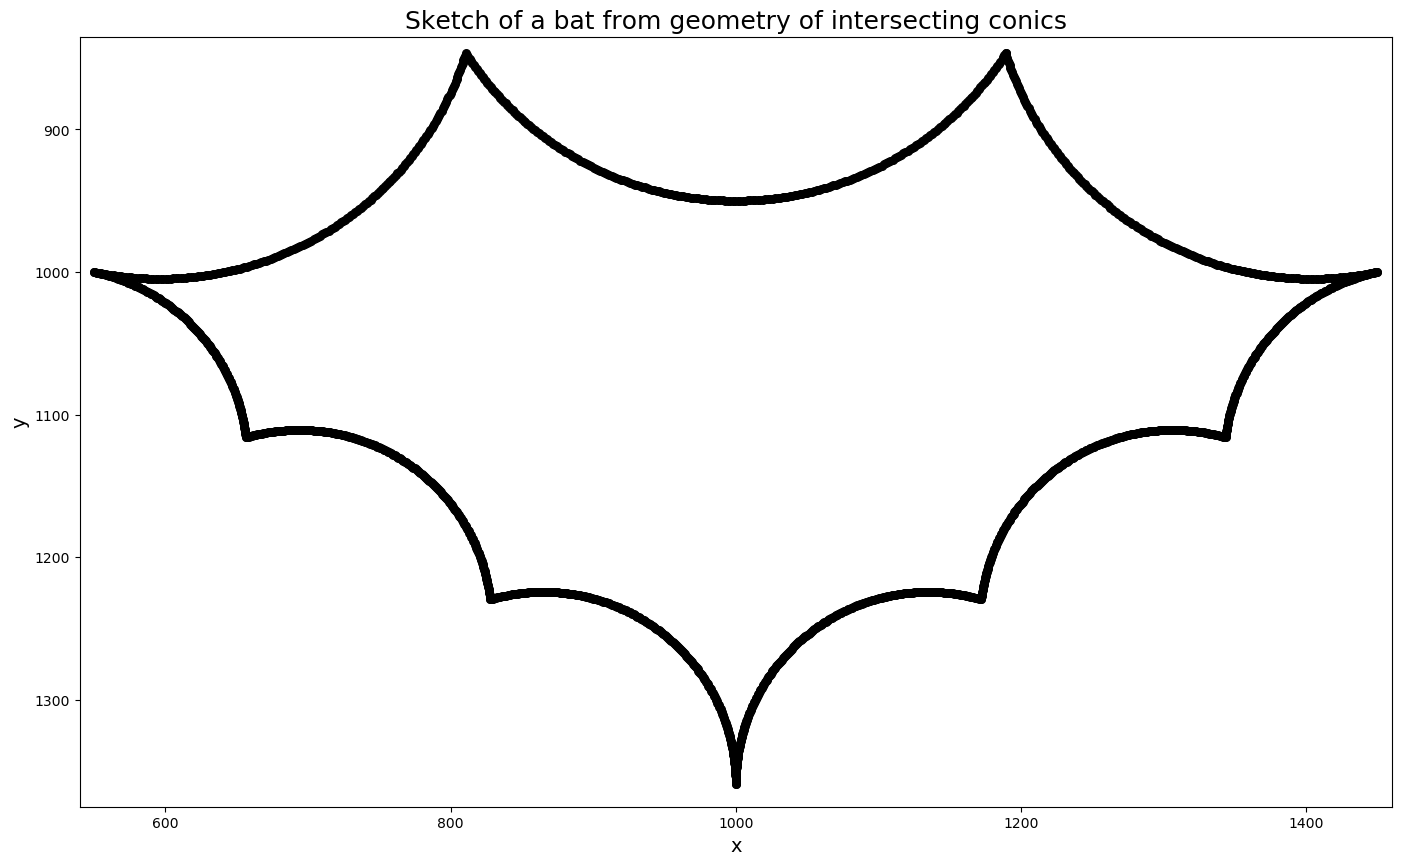
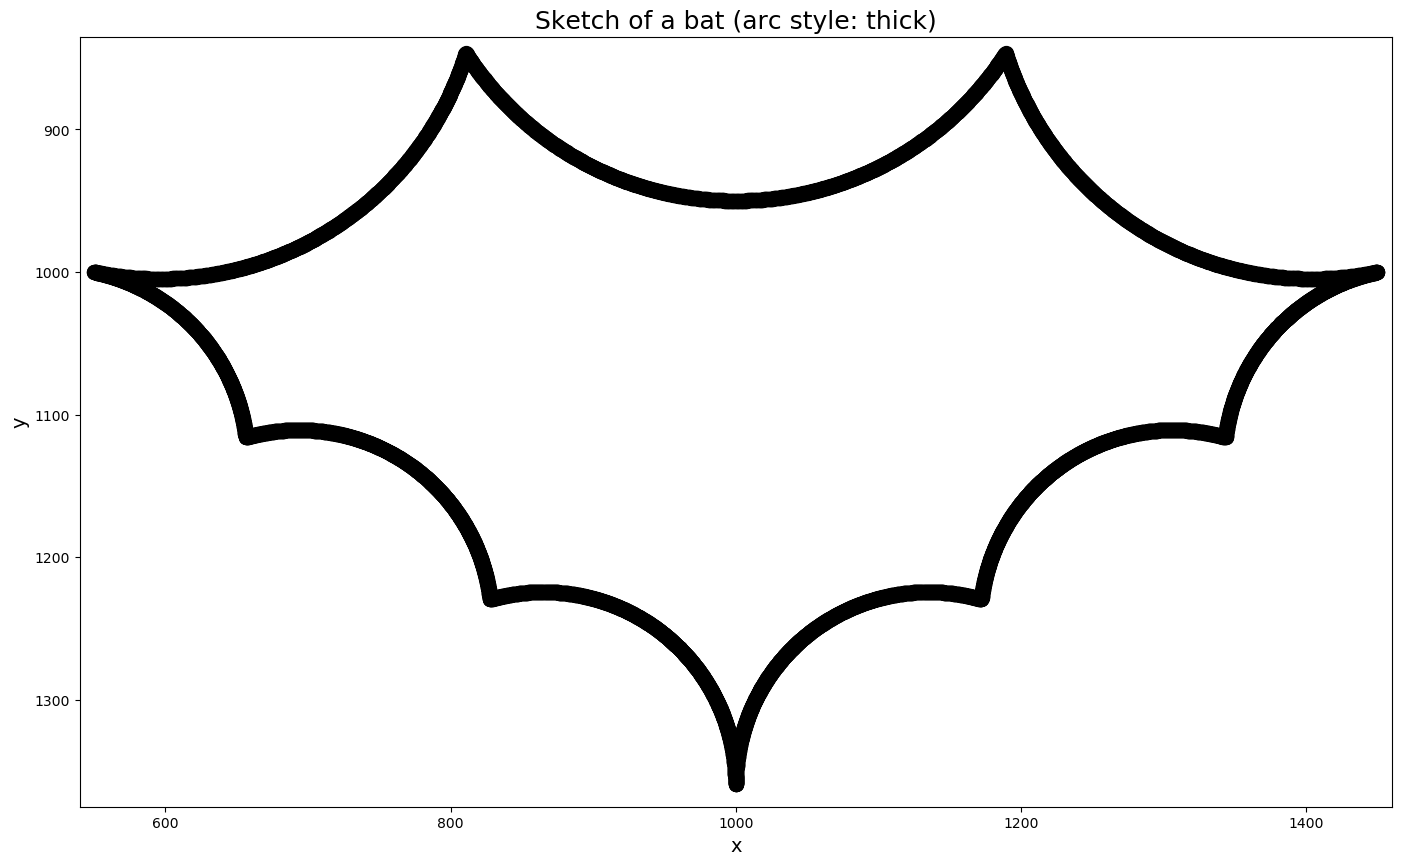
Updated arc styles and documented resulting images

diff --git a/sketch.py b/sketch.py
@@ -24,8 +24,8 @@ from sympy.combinatorics import Permutation
 from ellipse_intersect import intersection_points, intersection_t
 
 VISUALISE = True
-SUPPRESS_SKETCH_VIS = False
-ARC_STYLE = "thick"  # Options: "thick", "thin"
+SUPPRESS_SKETCH_VIS = True
+ARC_STYLE = "thin"  # Options: "dotted", "thin", thick
 SAVE_PLOT = False
 VERBOSE = False
 
@@ -37,7 +37,10 @@ if VISUALISE or SAVE_PLOT:
         plt.axis([540, 1460, 1375, 835])
     else:
         plt.axis([0, 2000, 2000, 0])
-    ax.set_title("Sketch of a bat from geometry of intersecting conics", size=18)
+    if SUPPRESS_SKETCH_VIS and ARC_STYLE in ["thick", "thin", "dotted"]:
+        ax.set_title(f"Sketch of a bat (arc style: {ARC_STYLE})", size=18)
+    else:
+        ax.set_title("Sketch of a bat from geometry of intersecting conics", size=18)
     ax.set_xlabel("x", size=14)
     ax.set_ylabel("y", size=14)
 
@@ -551,14 +554,25 @@ for cc_n, (cc_xc, cc_yc) in enumerate(circle_centres_clockwise):
                 + f"(centre {(cc_xc, cc_yc)} from {start_t} to {end_t}"
             )
         if ARC_STYLE == "thin":
+            thickness = 10
+            freq = 100 # Must be kept high so spacing is low or arc won't draw to end_t
+            spacing = thickness * 1000 / freq / cc_r
+            arc_range = arange(start_t, end_t, rad(spacing))
+            arc_x = [cc_xc + cc_r * cos(arc_t) for arc_t in arc_range]
+            arc_y = [cc_yc + cc_r * sin(arc_t) for arc_t in arc_range]
+            plt.plot(arc_x, arc_y, color="k", alpha=1)
+        elif ARC_STYLE == "thick":
+            thickness = 100
+            freq = 100
+            spacing = thickness * 1000 / freq / cc_r
             for arc_t in arange(start_t, end_t, rad(0.1)):
                 arc_x = cc_xc + cc_r * cos(arc_t)
                 arc_y = cc_yc + cc_r * sin(arc_t)
-                plt.scatter(arc_x, arc_y, s=5, color="k", alpha=1)
-        elif ARC_STYLE == "thick":
-            thickness = 30
-            freq = 30
-            uniform_spacing = thickness * 100 / freq / tc_r
+                plt.scatter(arc_x, arc_y, s=thickness, color="k", alpha=1)
+        elif ARC_STYLE == "dotted":
+            thickness = 10
+            freq = 10
+            uniform_spacing = thickness * 1000 / freq / cc_r
             for arc_t in arange(start_t, end_t, rad(uniform_spacing)):
                 arc_x = cc_xc + cc_r * cos(arc_t)
                 arc_y = cc_yc + cc_r * sin(arc_t)

diff --git a/README.md b/README.md
@@ -19,6 +19,13 @@ simplification/factorising is in `equation_check.py`.
 
 Complete!
 
+## Plan
+
+![](bat-sketch.png)
+
+## Result
+
 ![](sketch.png)
+![](bat_dotted.png)
 ![](bat_thin.png)
 ![](bat_thick.png)
